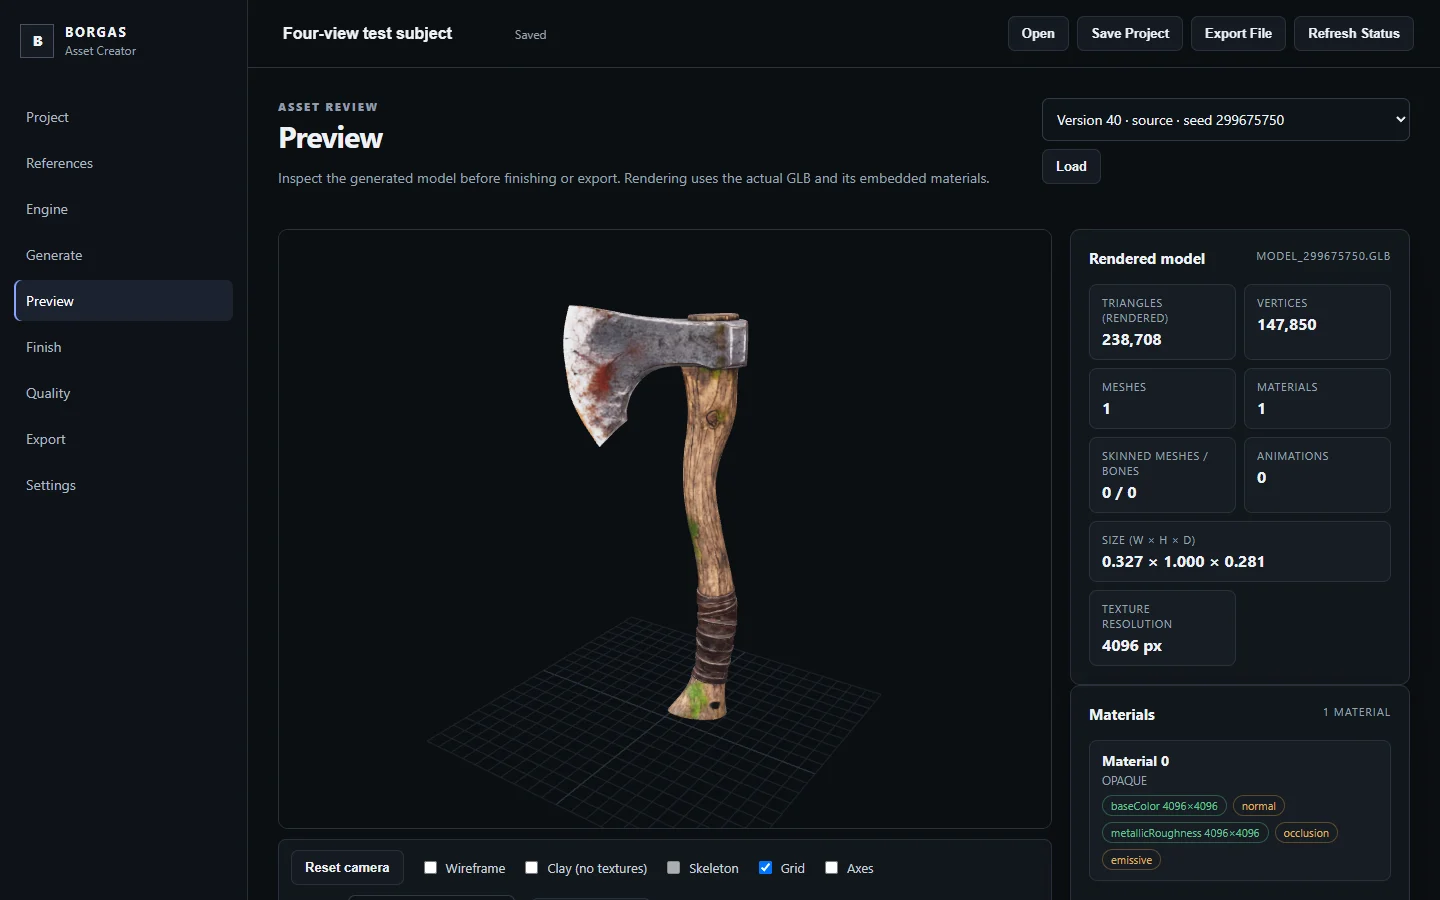
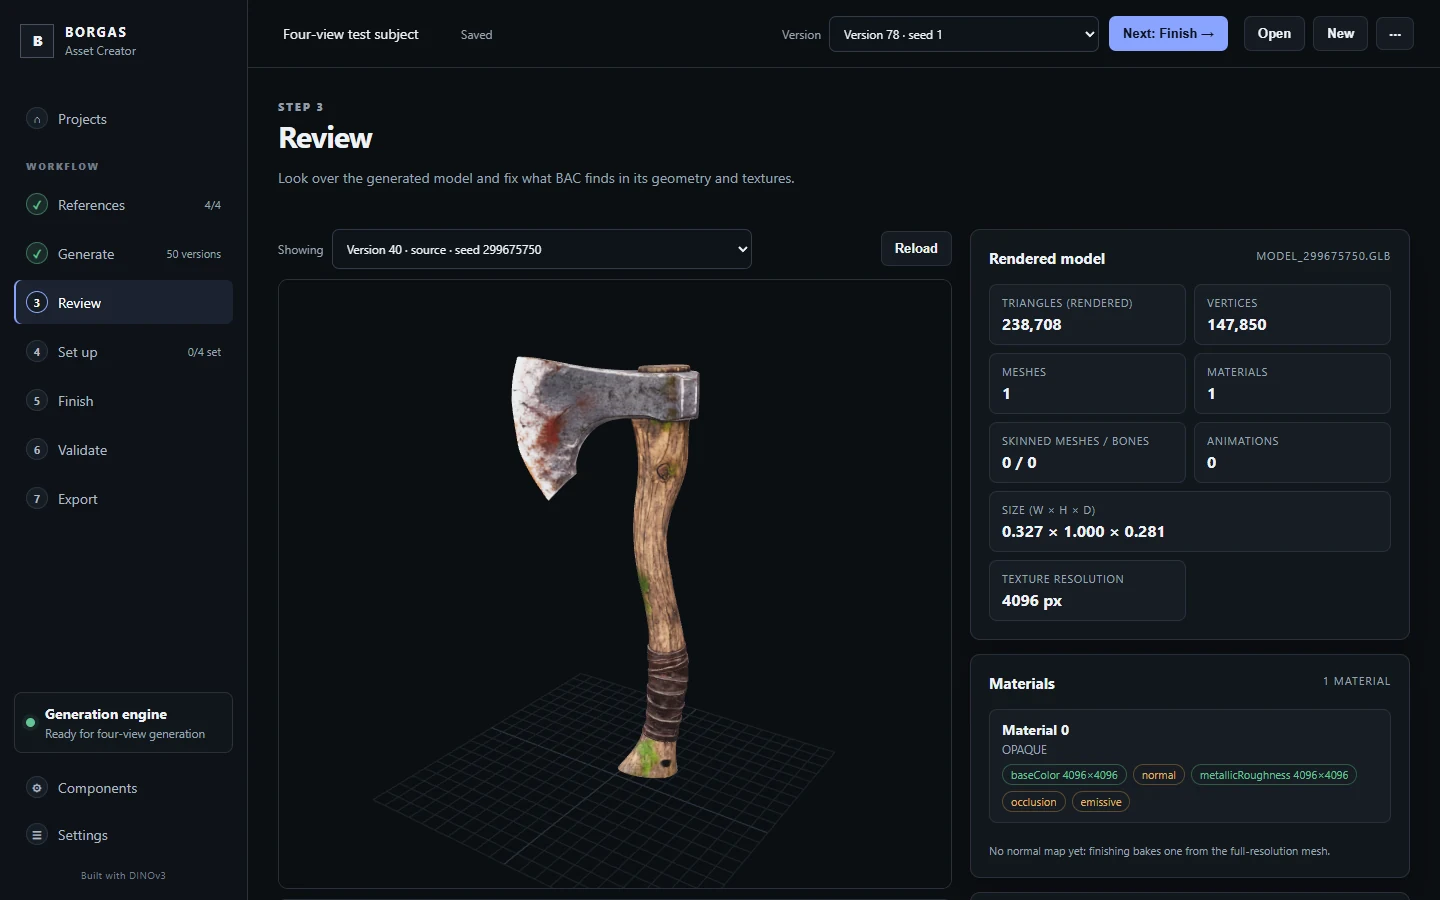
BAC product page: screenshot of the 1.25 Review screen

diff --git a/src/data/products.ts b/src/data/products.ts
@@ -271,7 +271,7 @@ const all: Product[] = [
     ],
     resources: [],
     images: [
-      { src: "/images/bac/app-preview.webp", alt: "BORGAS Asset Creator Preview screen showing a generated, textured wood-handled axe with 238,708 triangles and 4096-pixel textures", caption: "BAC Preview screen with a model generated by BAC from four reference images. Actual application screenshot." },
+      { src: "/images/bac/app-preview.webp", alt: "BORGAS Asset Creator Review screen showing a generated, textured wood-handled axe with 238,708 triangles and 4096-pixel textures, with the workflow steps in the sidebar", caption: "BAC Review screen with a model generated by BAC from four reference images. Actual application screenshot." },
       { src: "/images/bac/model-cottage.webp", alt: "Moss-covered stone cottage with a slate roof and chimney, generated by BAC", caption: "Cottage. Generated by BAC, 248,795 triangles." },
       { src: "/images/bac/model-well.webp", alt: "Overgrown stone well with a wooden roof, bucket and hanging charms, generated by BAC", caption: "Well. Generated by BAC, 248,775 triangles." },
       { src: "/images/bac/model-wolf.webp", alt: "Grey wolf standing side-on, generated by BAC", caption: "Wolf. Generated by BAC, 245,774 triangles." },
